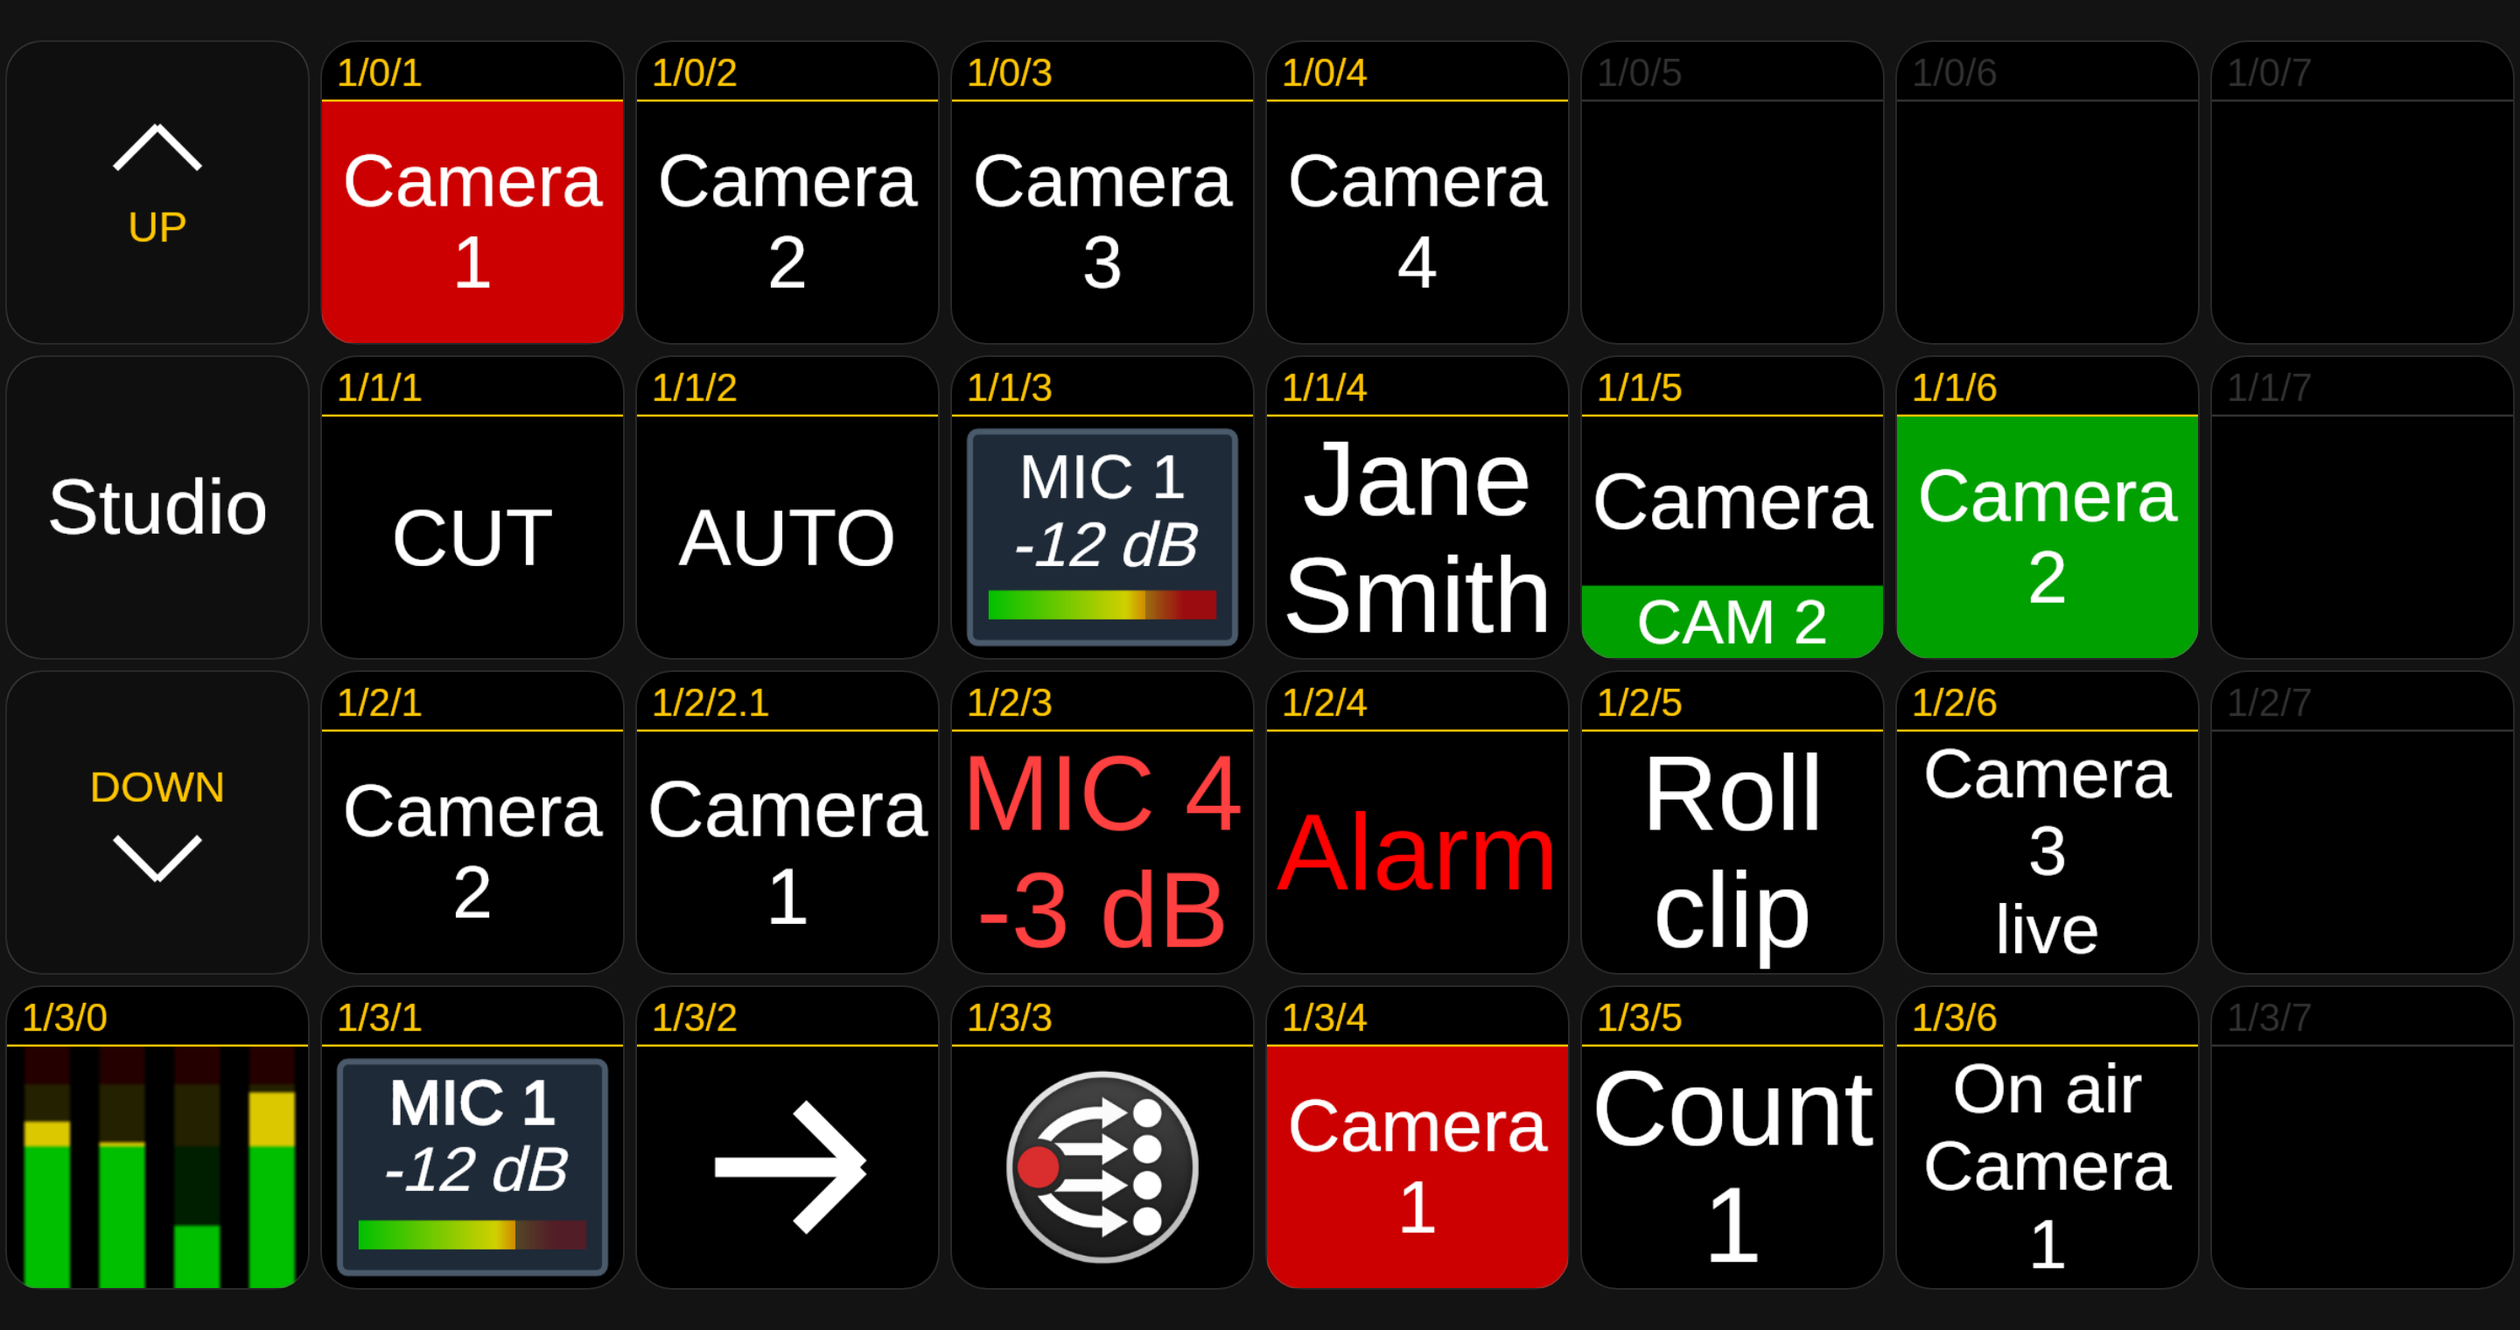
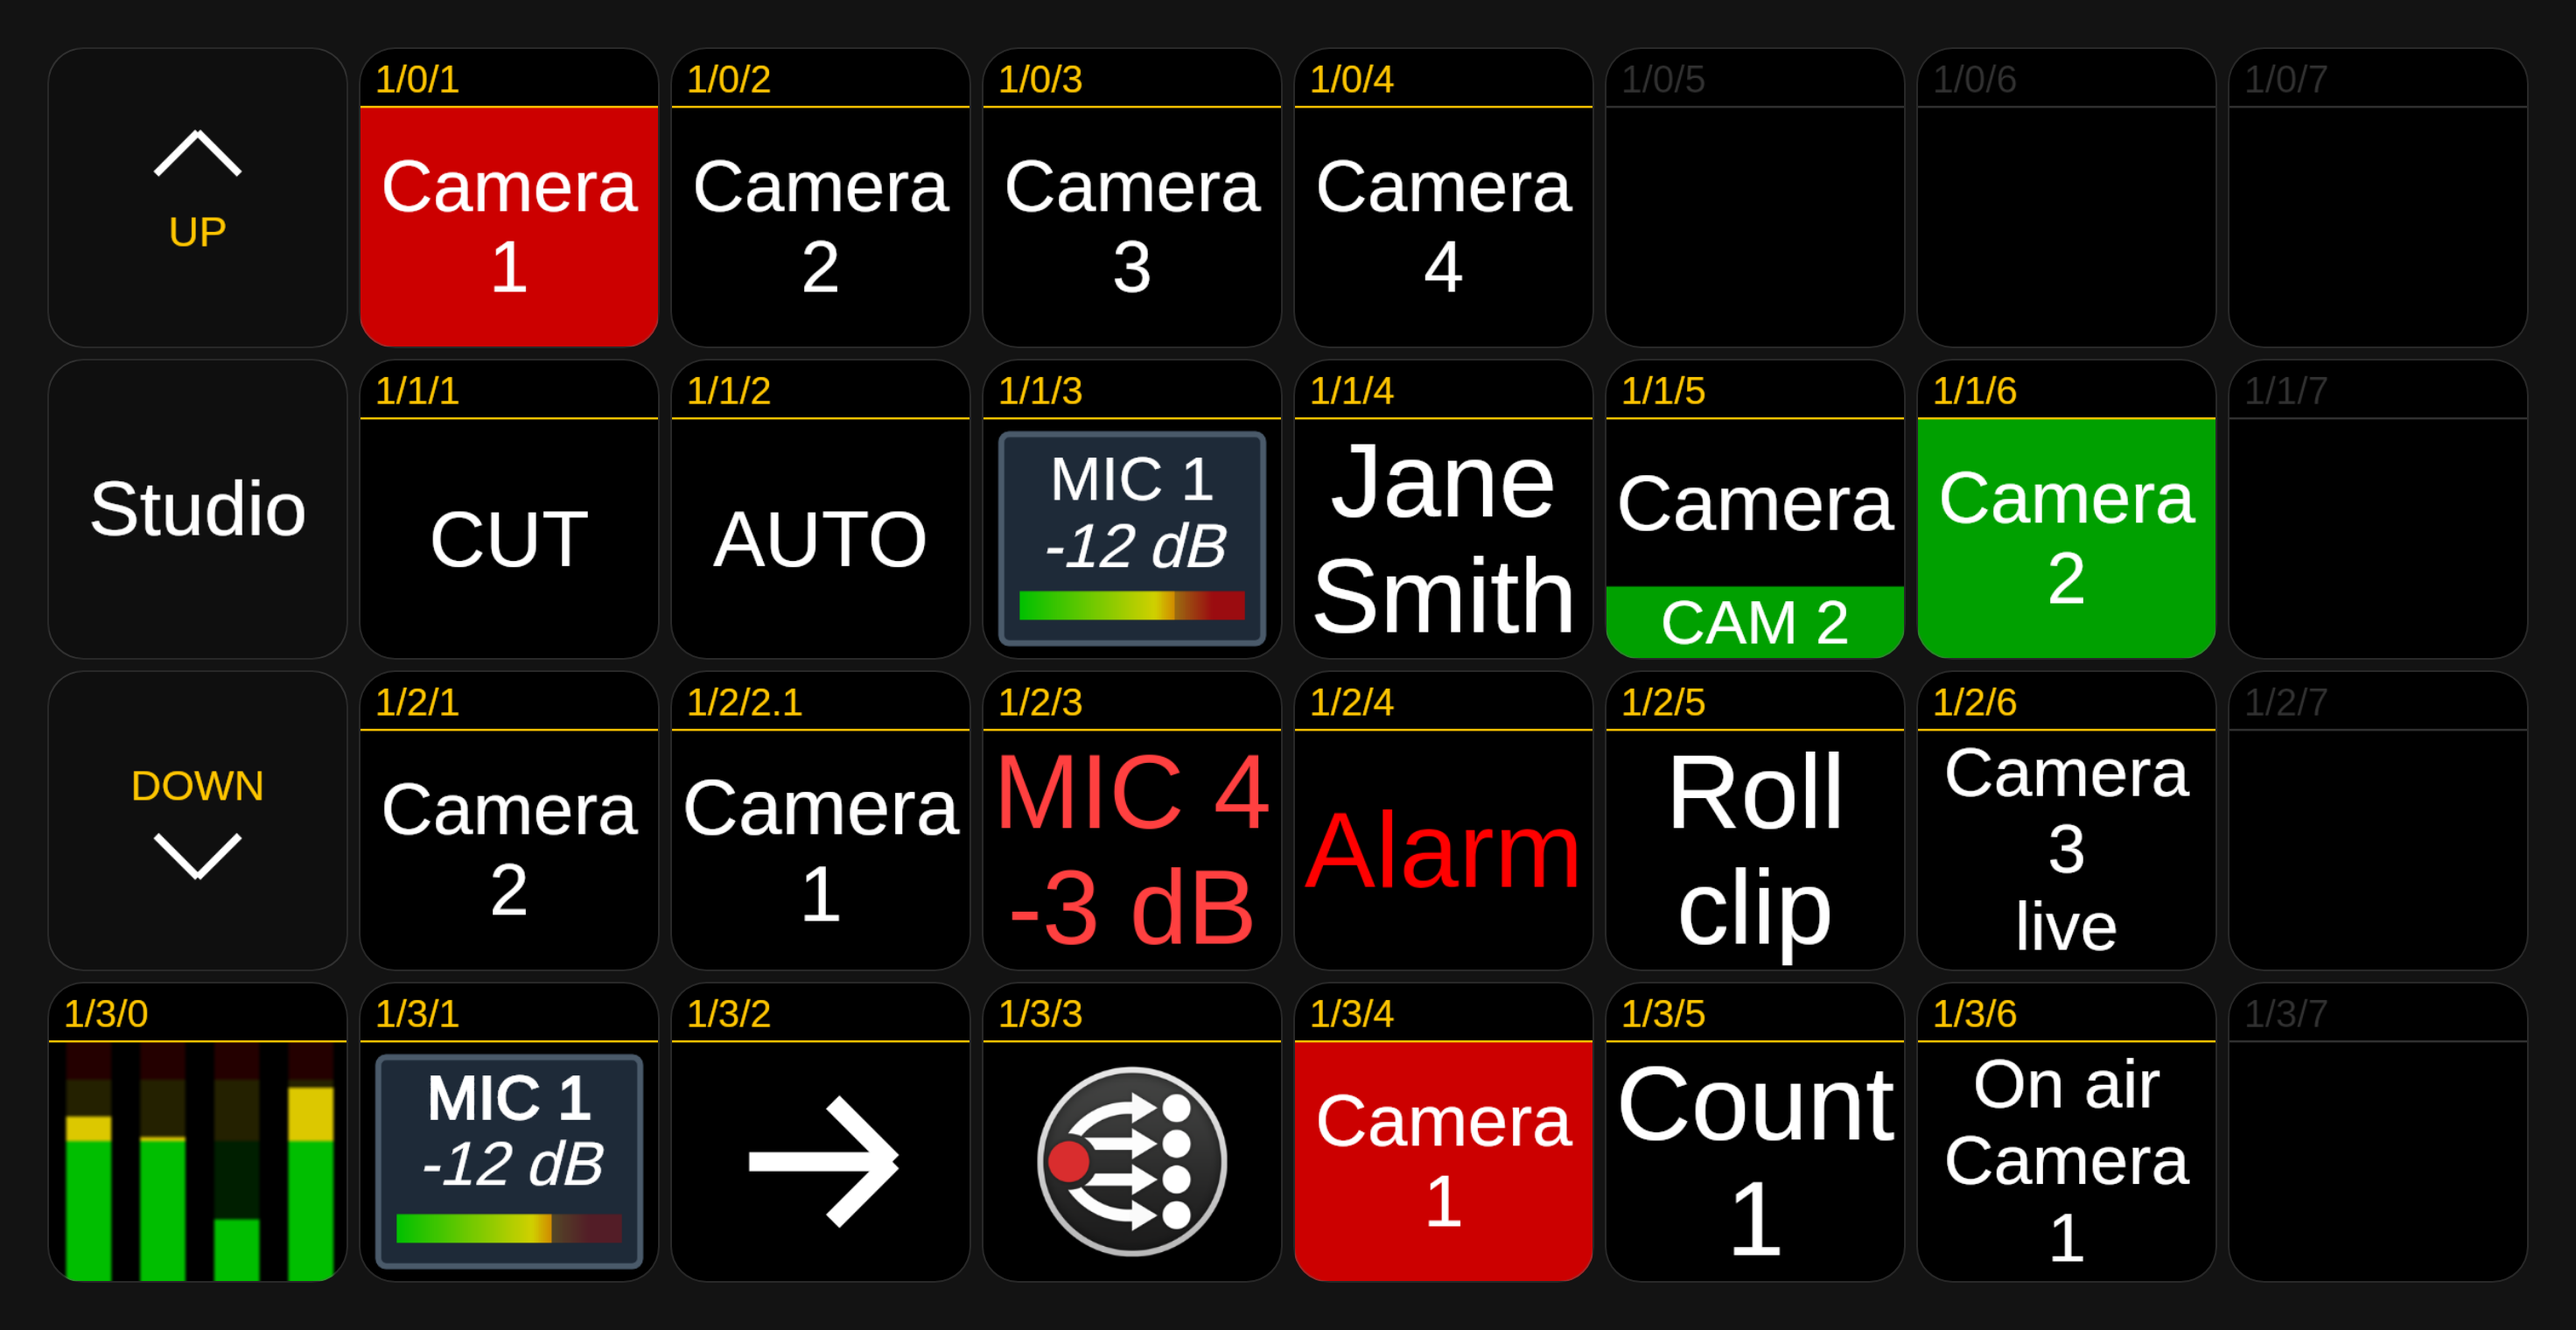
docs: space the emulator screenshot from its sides too
The emulator sizes its grid to fill the window, so it only had space above and
below it. The screenshot makes the grid smaller than the window by a margin
all round.

Claude-Session: https://claude.ai/code/session_01Vb3J9xjxFGGeH5r4UKVetu

diff --git a/e2e/docs-screenshots/surfaces.shots.ts b/e2e/docs-screenshots/surfaces.shots.ts
@@ -60,9 +60,19 @@ test('surface integrations', async ({ page }) => {
 })
 
 test('emulator', async ({ page }) => {
-	await withViewport(page, { width: 1440, height: 760 }, async () => {
+	// The grid is 8 by 4 buttons, with a margin all round. The emulator sizes it to fill the window (with an inline
+	// style), so it is made smaller than the window here, by the margin
+	const margin = 24
+	const height = 760
+	await withViewport(page, { width: (height - margin * 2) * 2 + margin * 2, height }, async () => {
 		await page.goto('/emulator/studio')
 		await expect(page.locator('.emulatorgrid .button-control')).toHaveCount(32)
+		await page.addStyleTag({
+			content: `.page-emulator .buttongrid {
+				height: calc(100dvh - ${margin * 2}px) !important;
+				width: calc((100dvh - ${margin * 2}px) * 2) !important;
+			}`,
+		})
 		await shoot(page, page.locator('body'), '6_interactive-buttons/images/emulator')
 	})
 })
